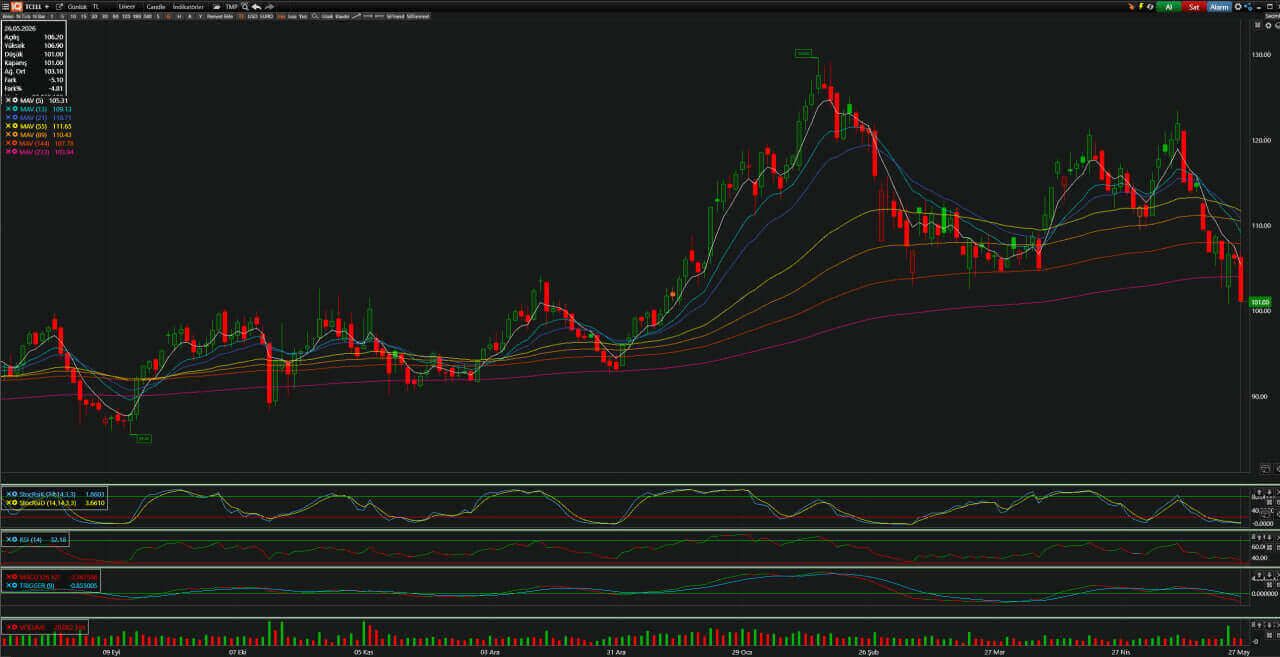
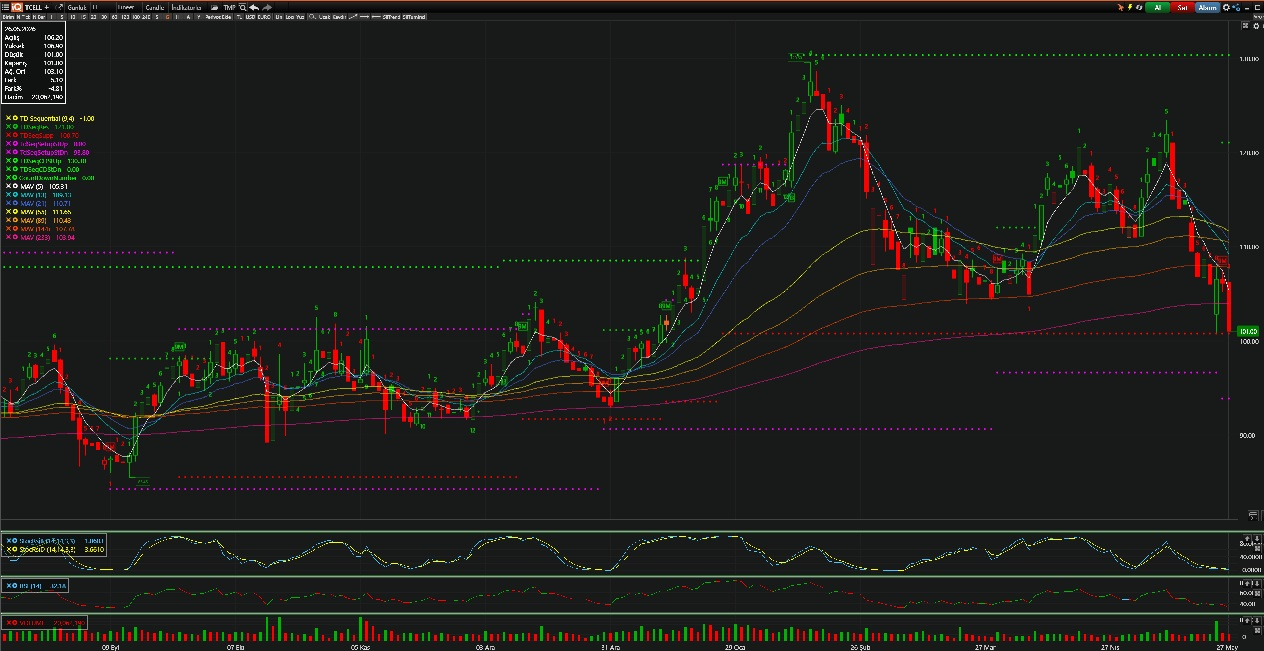
yaz

diff --git a/app/borsa/grafik-analiz/tcell/page.tsx b/app/borsa/grafik-analiz/tcell/page.tsx
@@ -61,7 +61,7 @@ function ReklamAlani({ variant = "yatay" }: { variant?: "yatay" | "icerik" }) {
 export default function TcellGrafikAnalizPage() {
   return (
     <main className="min-h-screen bg-white">
-      <div className="mx-auto max-w-4xl px-4 py-6 md:px-6">
+      <div className="mx-auto max-w-7xl px-4 py-6 md:px-6">
         <section className="mb-6 flex flex-wrap gap-3">
           <Link
             href="/"
@@ -94,8 +94,8 @@ export default function TcellGrafikAnalizPage() {
           </section>
 
           <section className="pt-6">
-            <div className="overflow-hidden rounded-2xl border border-zinc-200 bg-zinc-50">
-              <div className="relative aspect-[16/10] w-full">
+            <div className="overflow-hidden rounded-2xl border border-zinc-200 bg-zinc-950">
+              <div className="relative aspect-video w-full">
                 <Image
                   src="/analiz-1.jpg"
                   alt="TCELL analiz görseli"

diff --git a/app/borsa/grafik-analiz/sokm/page.tsx b/app/borsa/grafik-analiz/sokm/page.tsx
@@ -101,16 +101,6 @@ export default function SokmGrafikAnalizPage() {
                 />
               </div>
             </div>
-
-            <div className="mt-4 flex justify-center">
-              <Link
-                href="/analiz-2.jpg"
-                target="_blank"
-                className="rounded-xl bg-zinc-900 px-5 py-3 text-sm font-semibold text-white hover:bg-zinc-700"
-              >
-                Grafiği Büyük Görüntüle
-              </Link>
-            </div>
           </section>
 
           <section className="pt-6">
